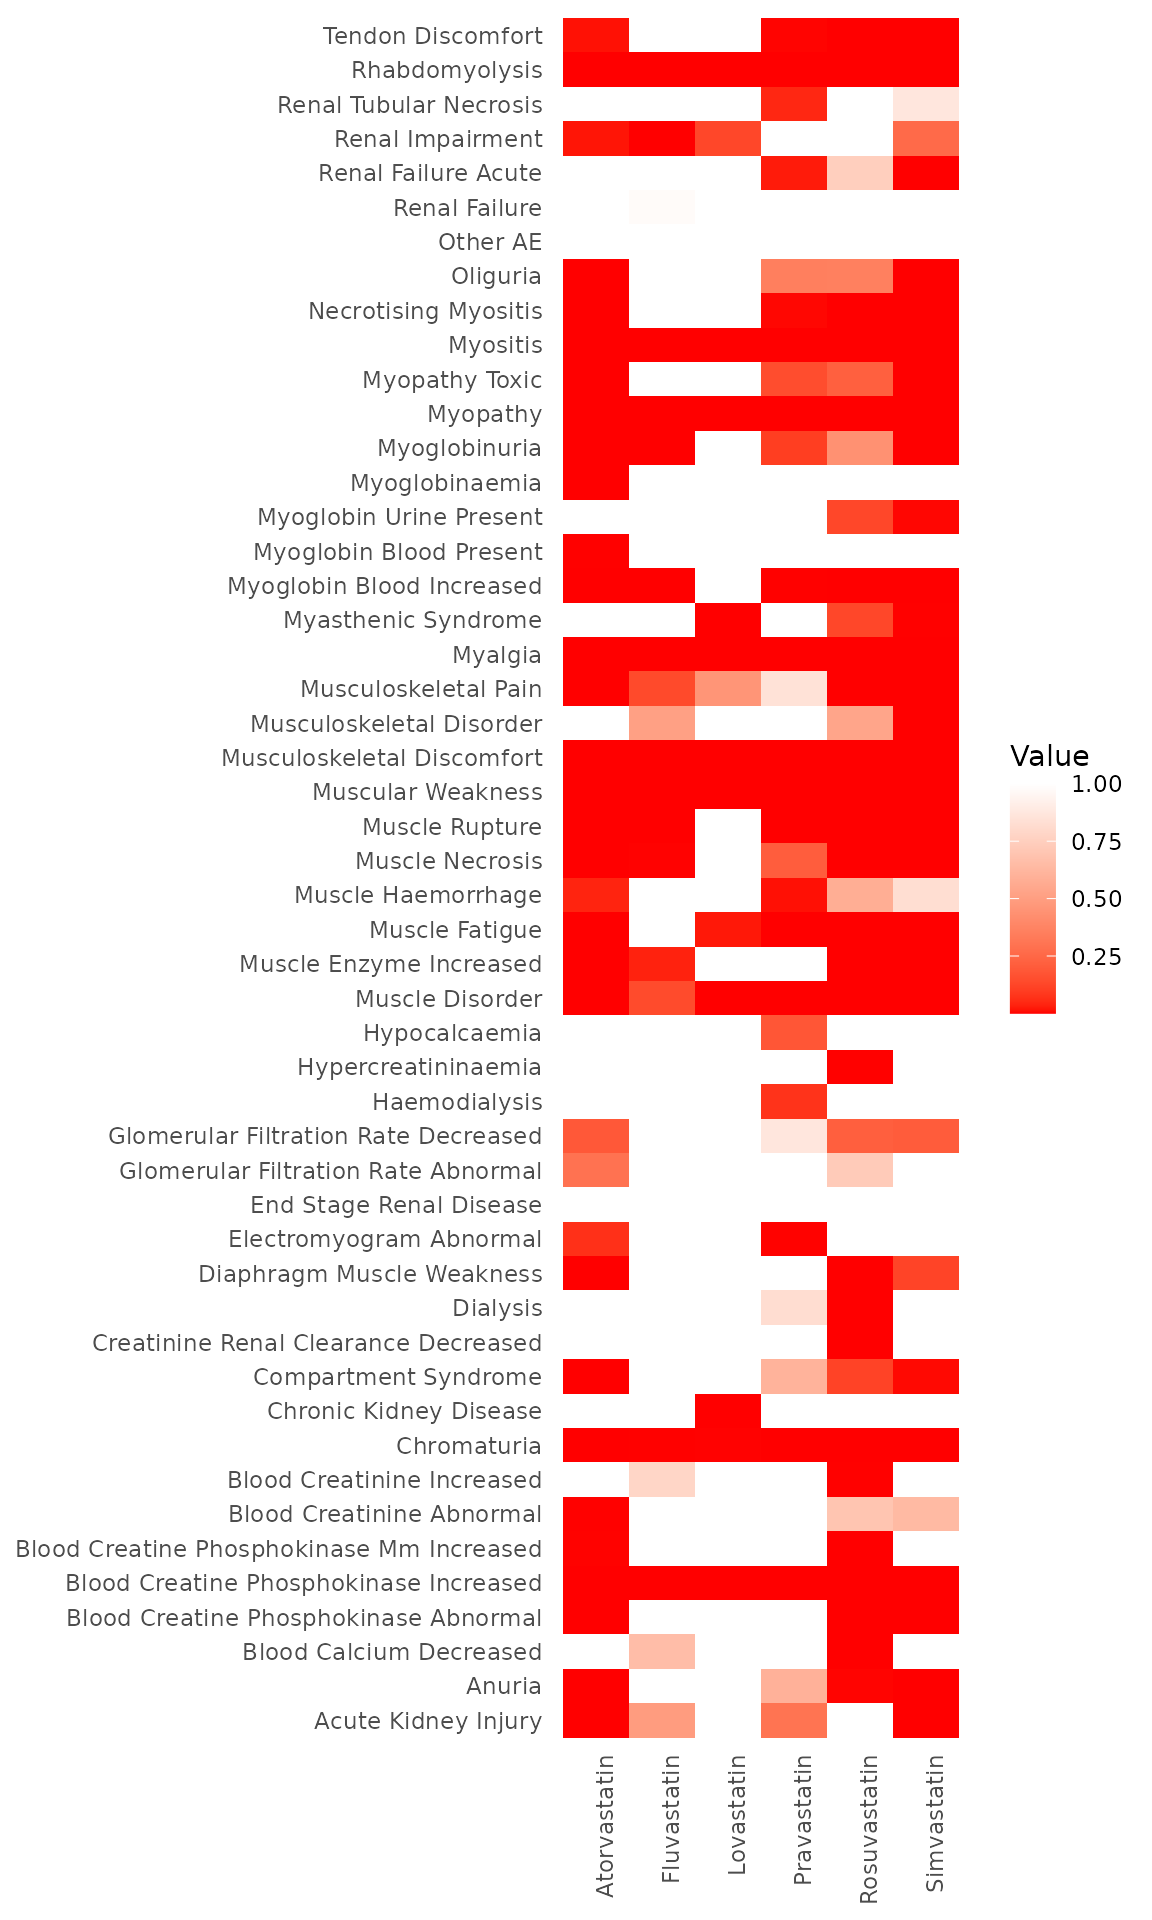
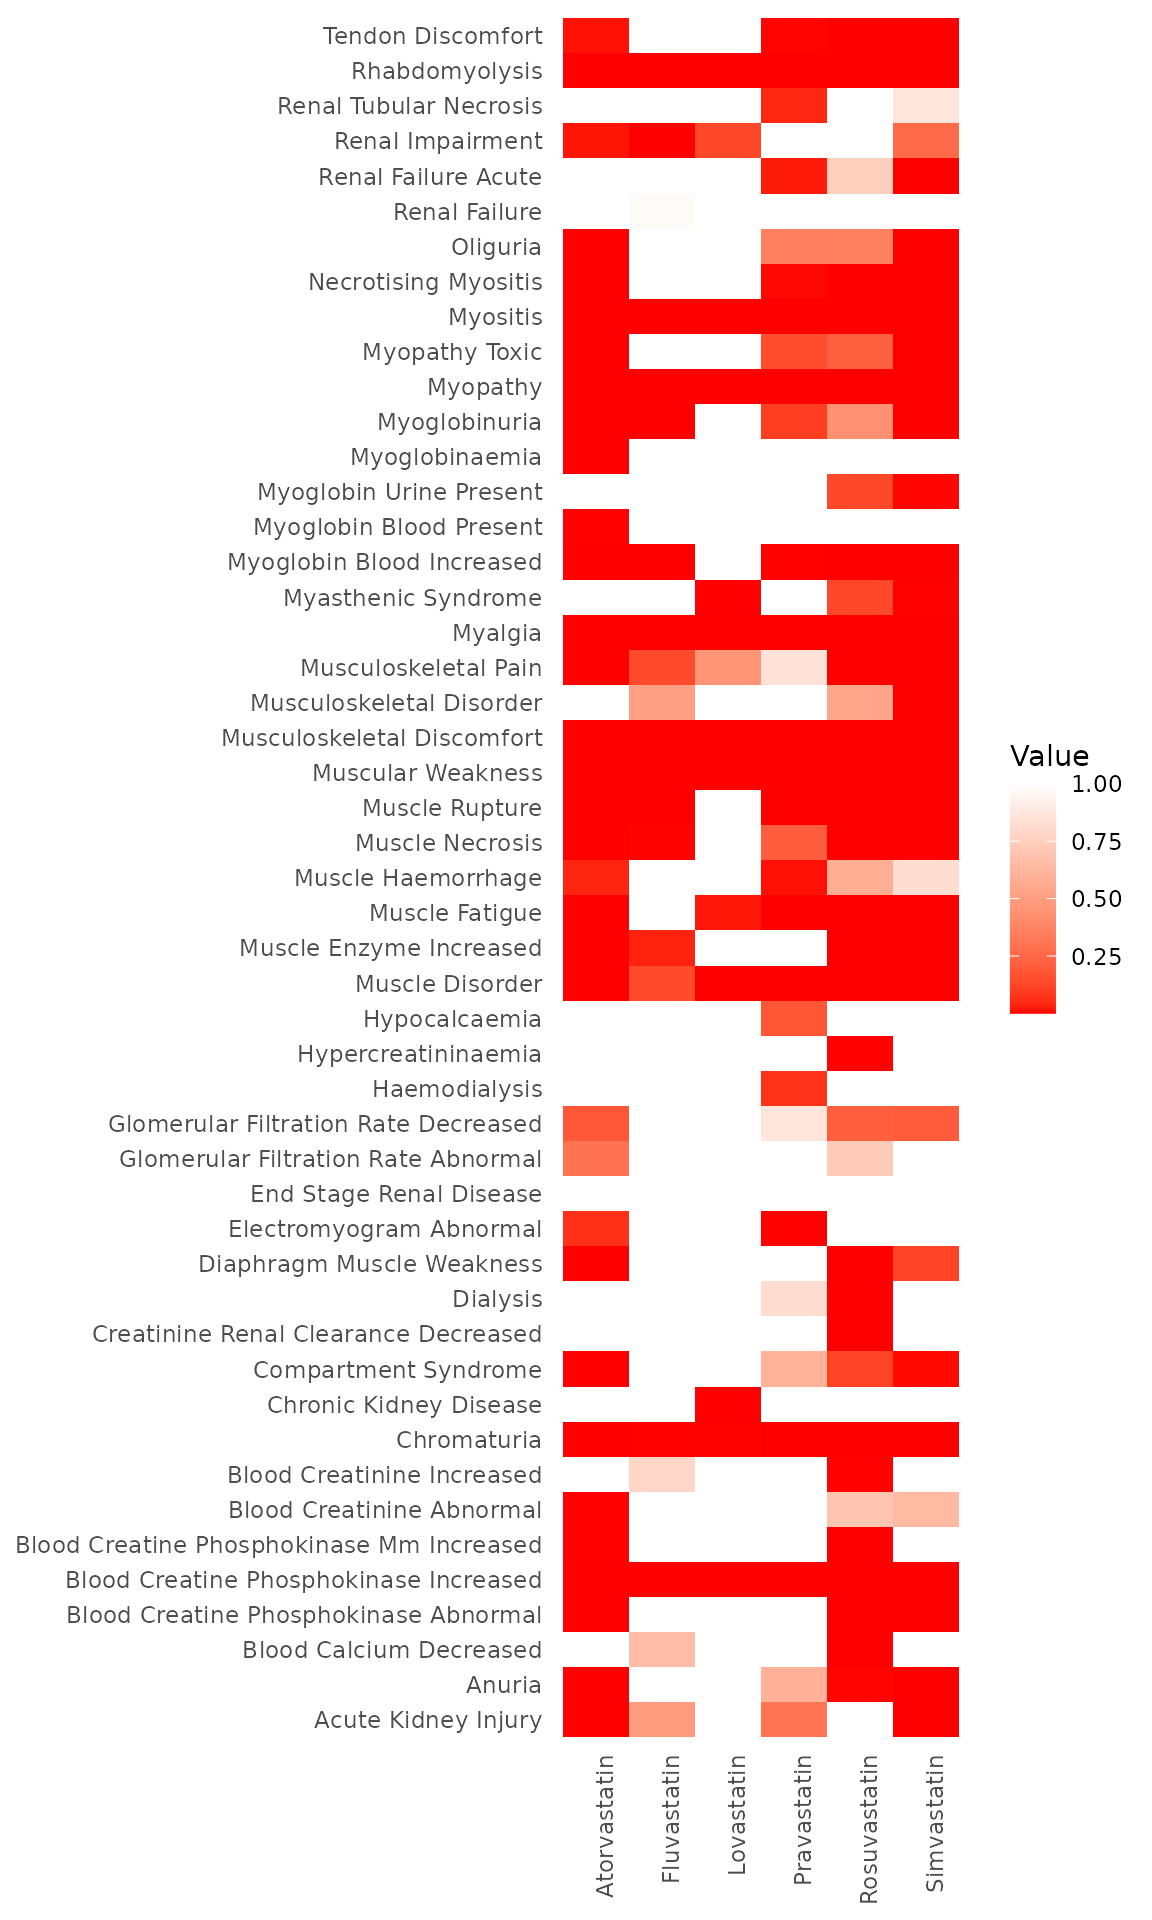
Deploying to gh-pages from @ niuniular/MDDC@5b63079d0972059531f87f8866b9d196b2f95e47 🚀

Changed region(s): [[0.0312, 0.0312, 0.8438, 0.9062], [0.5625, 0.8125, 0.7188, 0.8438]]

diff --git a/articles/Introduction_to_MDDC.html b/articles/Introduction_to_MDDC.html
@@ -575,7 +575,7 @@ each cell in the heatmap. Default is 1.</p></li>
 <p>The following heatmap shows the visualization of the associated
 p-values of Monte Carlo method in step 2:</p>
 <div class="sourceCode" id="cb15"><pre class="downlit sourceCode r">
-<code class="sourceCode R"><span><span class="fu"><a href="../reference/plot_heatmap.html">plot_heatmap</a></span><span class="op">(</span><span class="va">test2</span><span class="op">$</span><span class="va">mc_pval</span><span class="op">[</span>, <span class="op">-</span><span class="fl">7</span><span class="op">]</span><span class="op">)</span></span></code></pre></div>
+<code class="sourceCode R"><span><span class="fu"><a href="../reference/plot_heatmap.html">plot_heatmap</a></span><span class="op">(</span><span class="va">test2</span><span class="op">$</span><span class="va">mc_pval</span><span class="op">[</span><span class="op">-</span><span class="fl">50</span>, <span class="op">-</span><span class="fl">7</span><span class="op">]</span><span class="op">)</span></span></code></pre></div>
 <p><img src="Introduction_to_MDDC_files/figure-html/unnamed-chunk-16-1.png" width="576"></p>
 </div>
   </main><aside class="col-md-3"><nav id="toc" aria-label="Table of contents"><h2>On this page</h2>
